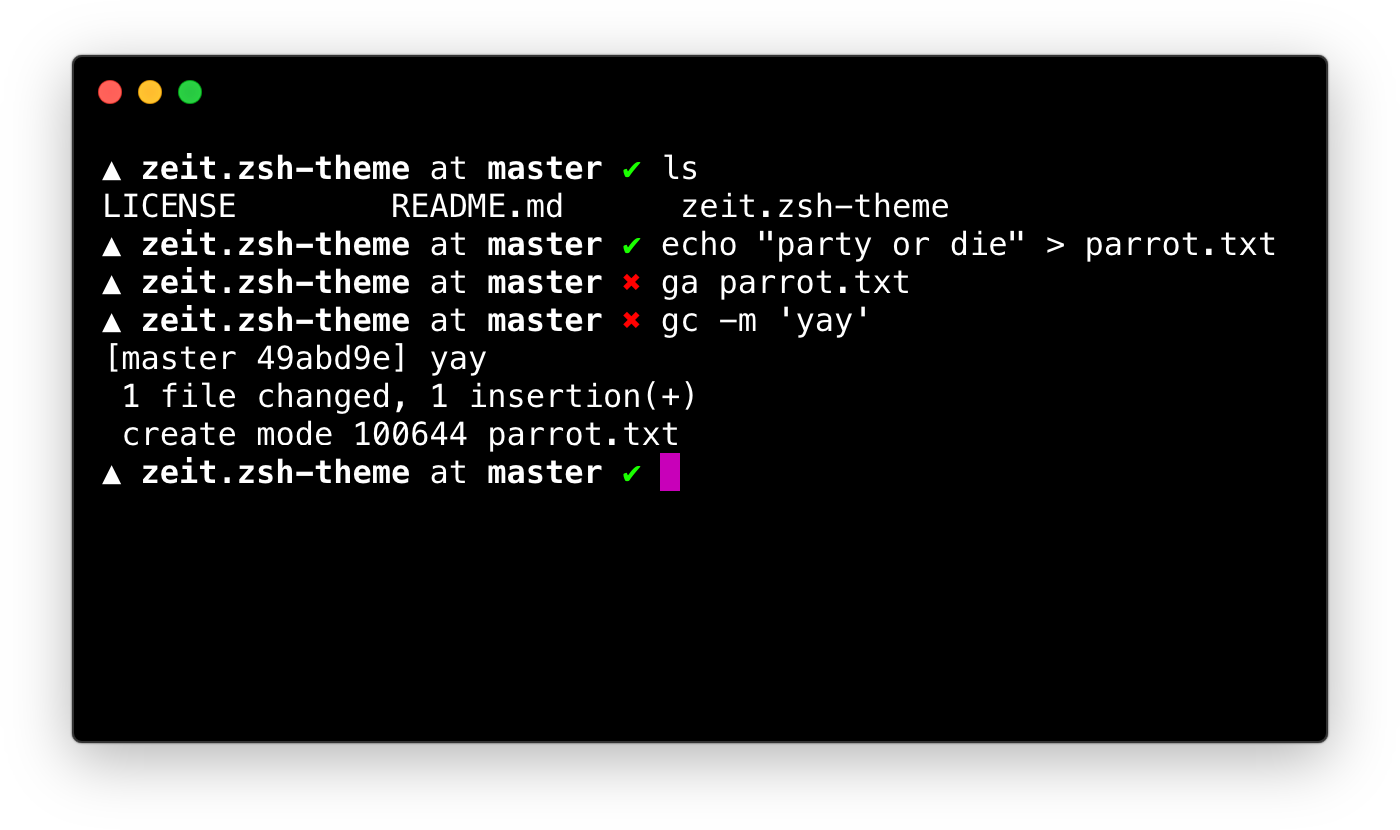
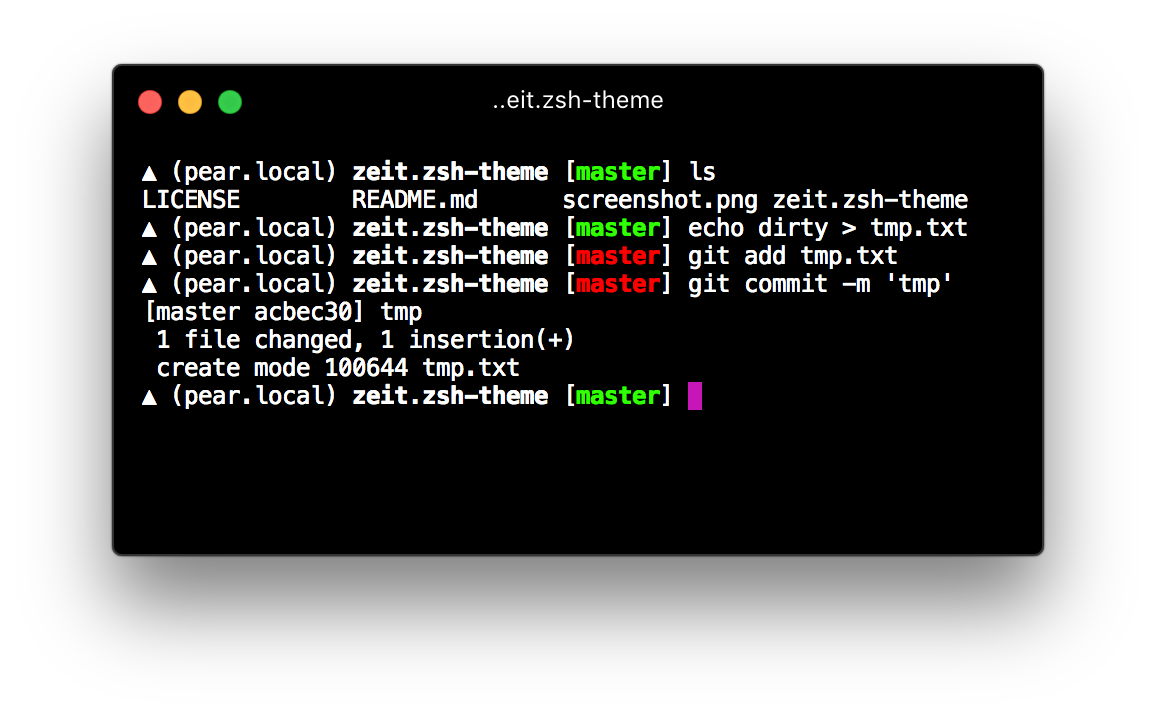
Update screenshot

diff --git a/README.md b/README.md
@@ -2,7 +2,7 @@
 ▲ZEIT's `zsh` theme
 
 <p align="center">
-  <img src="https://raw.githubusercontent.com/zeit/zeit.zsh-theme/master/screenshot.png">
+  <img src="https://raw.githubusercontent.com/zeit/zeit.zsh-theme/master/screenshot.png?v=2">
 </p>
 
 ## Install
